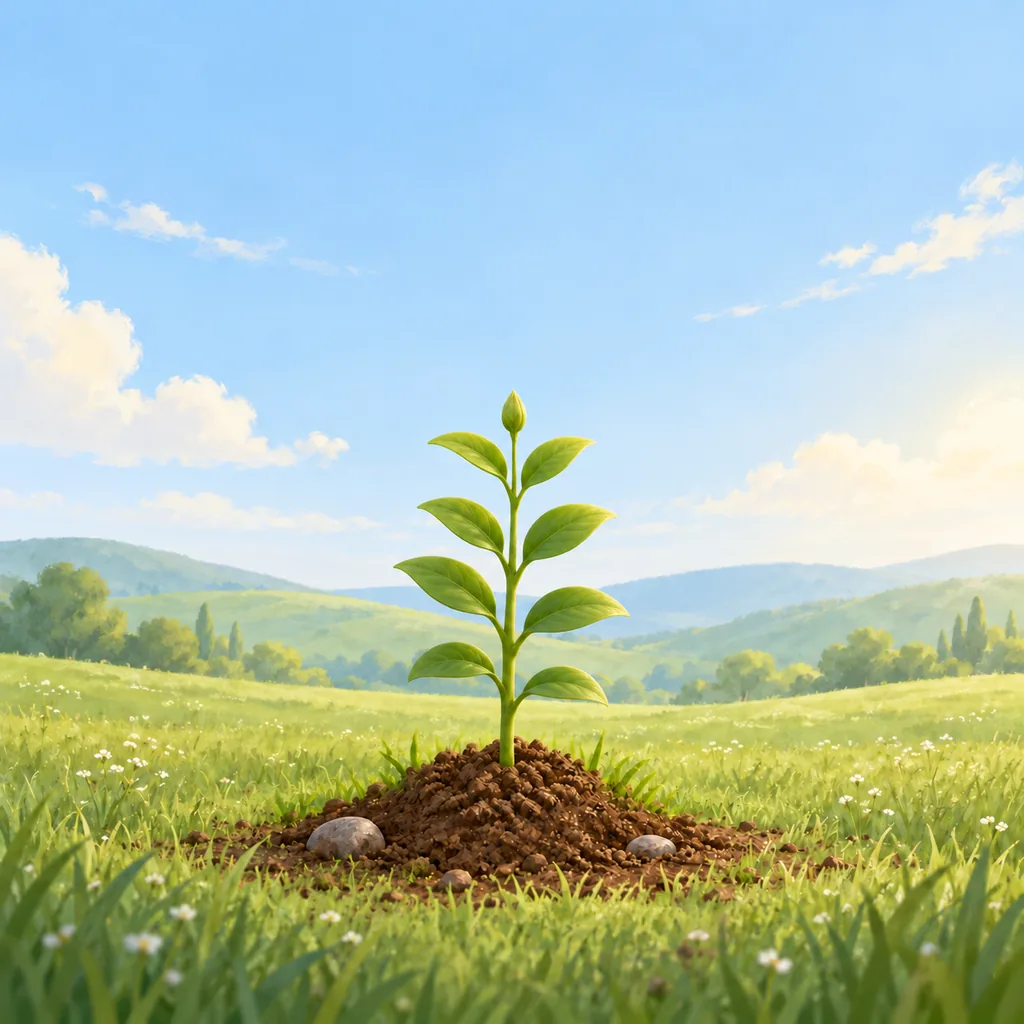
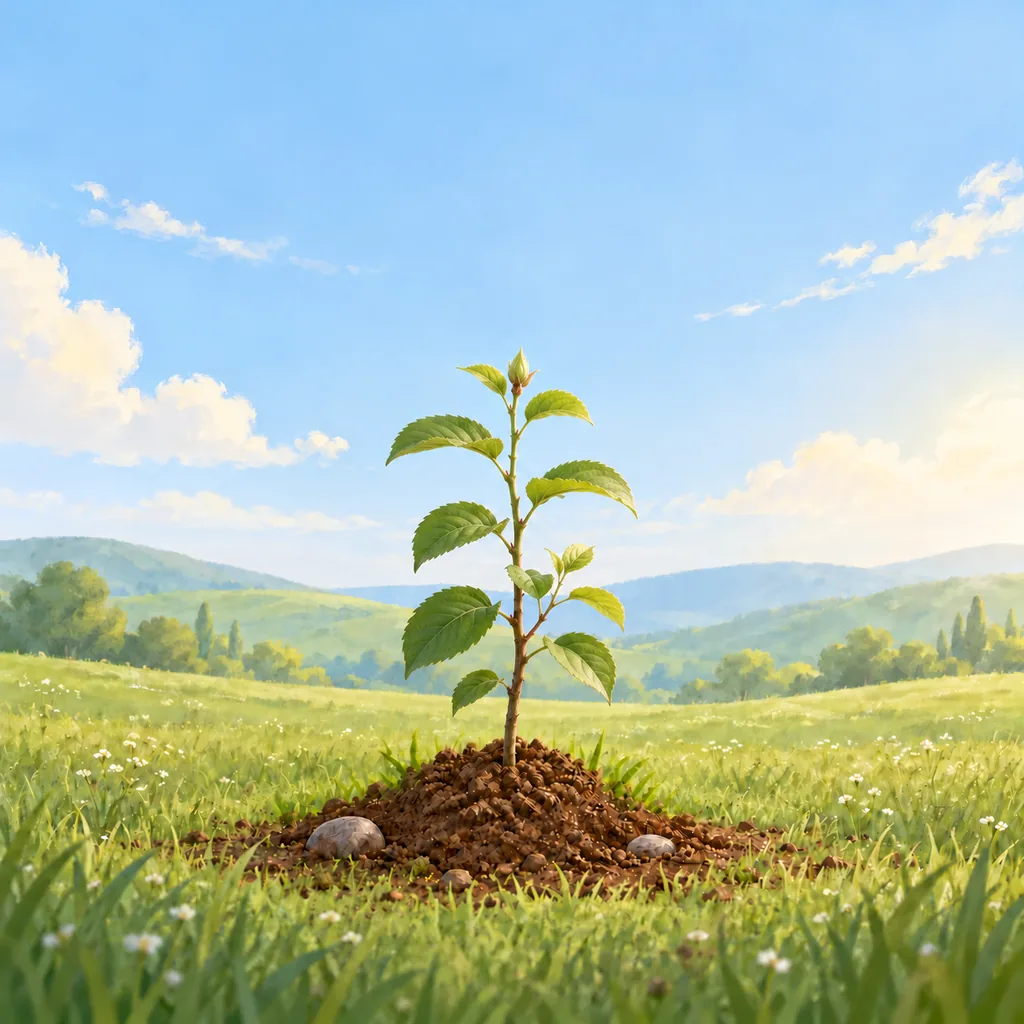
Дерево: реалистичный саженец (3) и яблоня с плодами (7)
Claude-Session: https://claude.ai/code/session_01DyVriSEgo7d8FwQphoW3Qp

diff --git a/js/growth.js b/js/growth.js
@@ -93,9 +93,9 @@ function leafPath(x,y,len,ang,col,vein){
 }
 /* Картинки стадий, нарисованные художником (art/tree-NN.webp). Для стадии без картинки дерево рисуется кодом.
    Для каждой стадии: [слева, сверху, размер] — какой квадрат картинки показать (доли от 1): ранние стадии приближены. */
-const TREE_ART={1:[.20,.38,.60], 2:[.20,.38,.60], 3:[.14,.27,.72], 4:[.06,.10,.88], 5:[0,0,1], 6:[0,0,1]};
+const TREE_ART={1:[.20,.38,.60], 2:[.20,.38,.60], 3:[.12,.22,.76], 4:[.06,.10,.88], 5:[0,0,1], 6:[0,0,1], 7:[0,0,1]};
 // ночью луна подсвечивает растение: центр и размер пятна света для каждой стадии (в координатах 300×300)
-const TREE_GLOW={1:[150,190,58,40], 2:[150,165,62,56], 3:[150,138,72,88], 4:[150,135,70,100], 5:[150,140,115,115], 6:[150,140,118,115]};
+const TREE_GLOW={1:[150,190,58,40], 2:[150,165,62,56], 3:[150,130,72,92], 4:[150,135,70,100], 5:[150,140,115,115], 6:[150,140,118,115], 7:[150,138,120,115]};
 const treeArtURL = st => TREE_ART[st] ? `art/tree-${String(st).padStart(2,"0")}.webp` : null;
 function treeArtSVG(lv, opts, night){
   const st=stageOf(lv), cr=TREE_ART[st], id="ta"+(++treeUid), R=rng(S.seed||7), k=300/cr[2], out=[];

diff --git a/sw.js b/sw.js
@@ -1,6 +1,6 @@
 // Офлайн-режим: файлы приложения сохраняются на телефоне.
 // При каждом обновлении приложения увеличивайте номер версии.
-const VERSION = "opora-v44";
+const VERSION = "opora-v45";
 const FILES = [
   "./", "./index.html", "./css/style.css", "./js/theme.js", "./js/config.js", "./js/content.js", "./js/content2.js", "./js/daily.js", "./js/app.js", "./js/growth.js", "./js/cards.js", "./js/thought.js", "./js/sounds.js", "./js/relations.js", "./js/couple.js", "./js/together.js", "./js/garden.js", "./js/goals.js", "./js/goals2.js", "./js/goals3.js", "./js/intim.js", "./js/intim2.js", "./js/retain.js", "./js/love2.js", "./js/thoughts2.js", "./js/achieve.js", "./js/howto.js", "./js/legal.js", "./js/ui.js",
   "./fonts/onest.woff", "./manifest.webmanifest", "./icons/icon-192.png", "./icons/icon-512.png", "./icons/apple-touch-icon.png"
